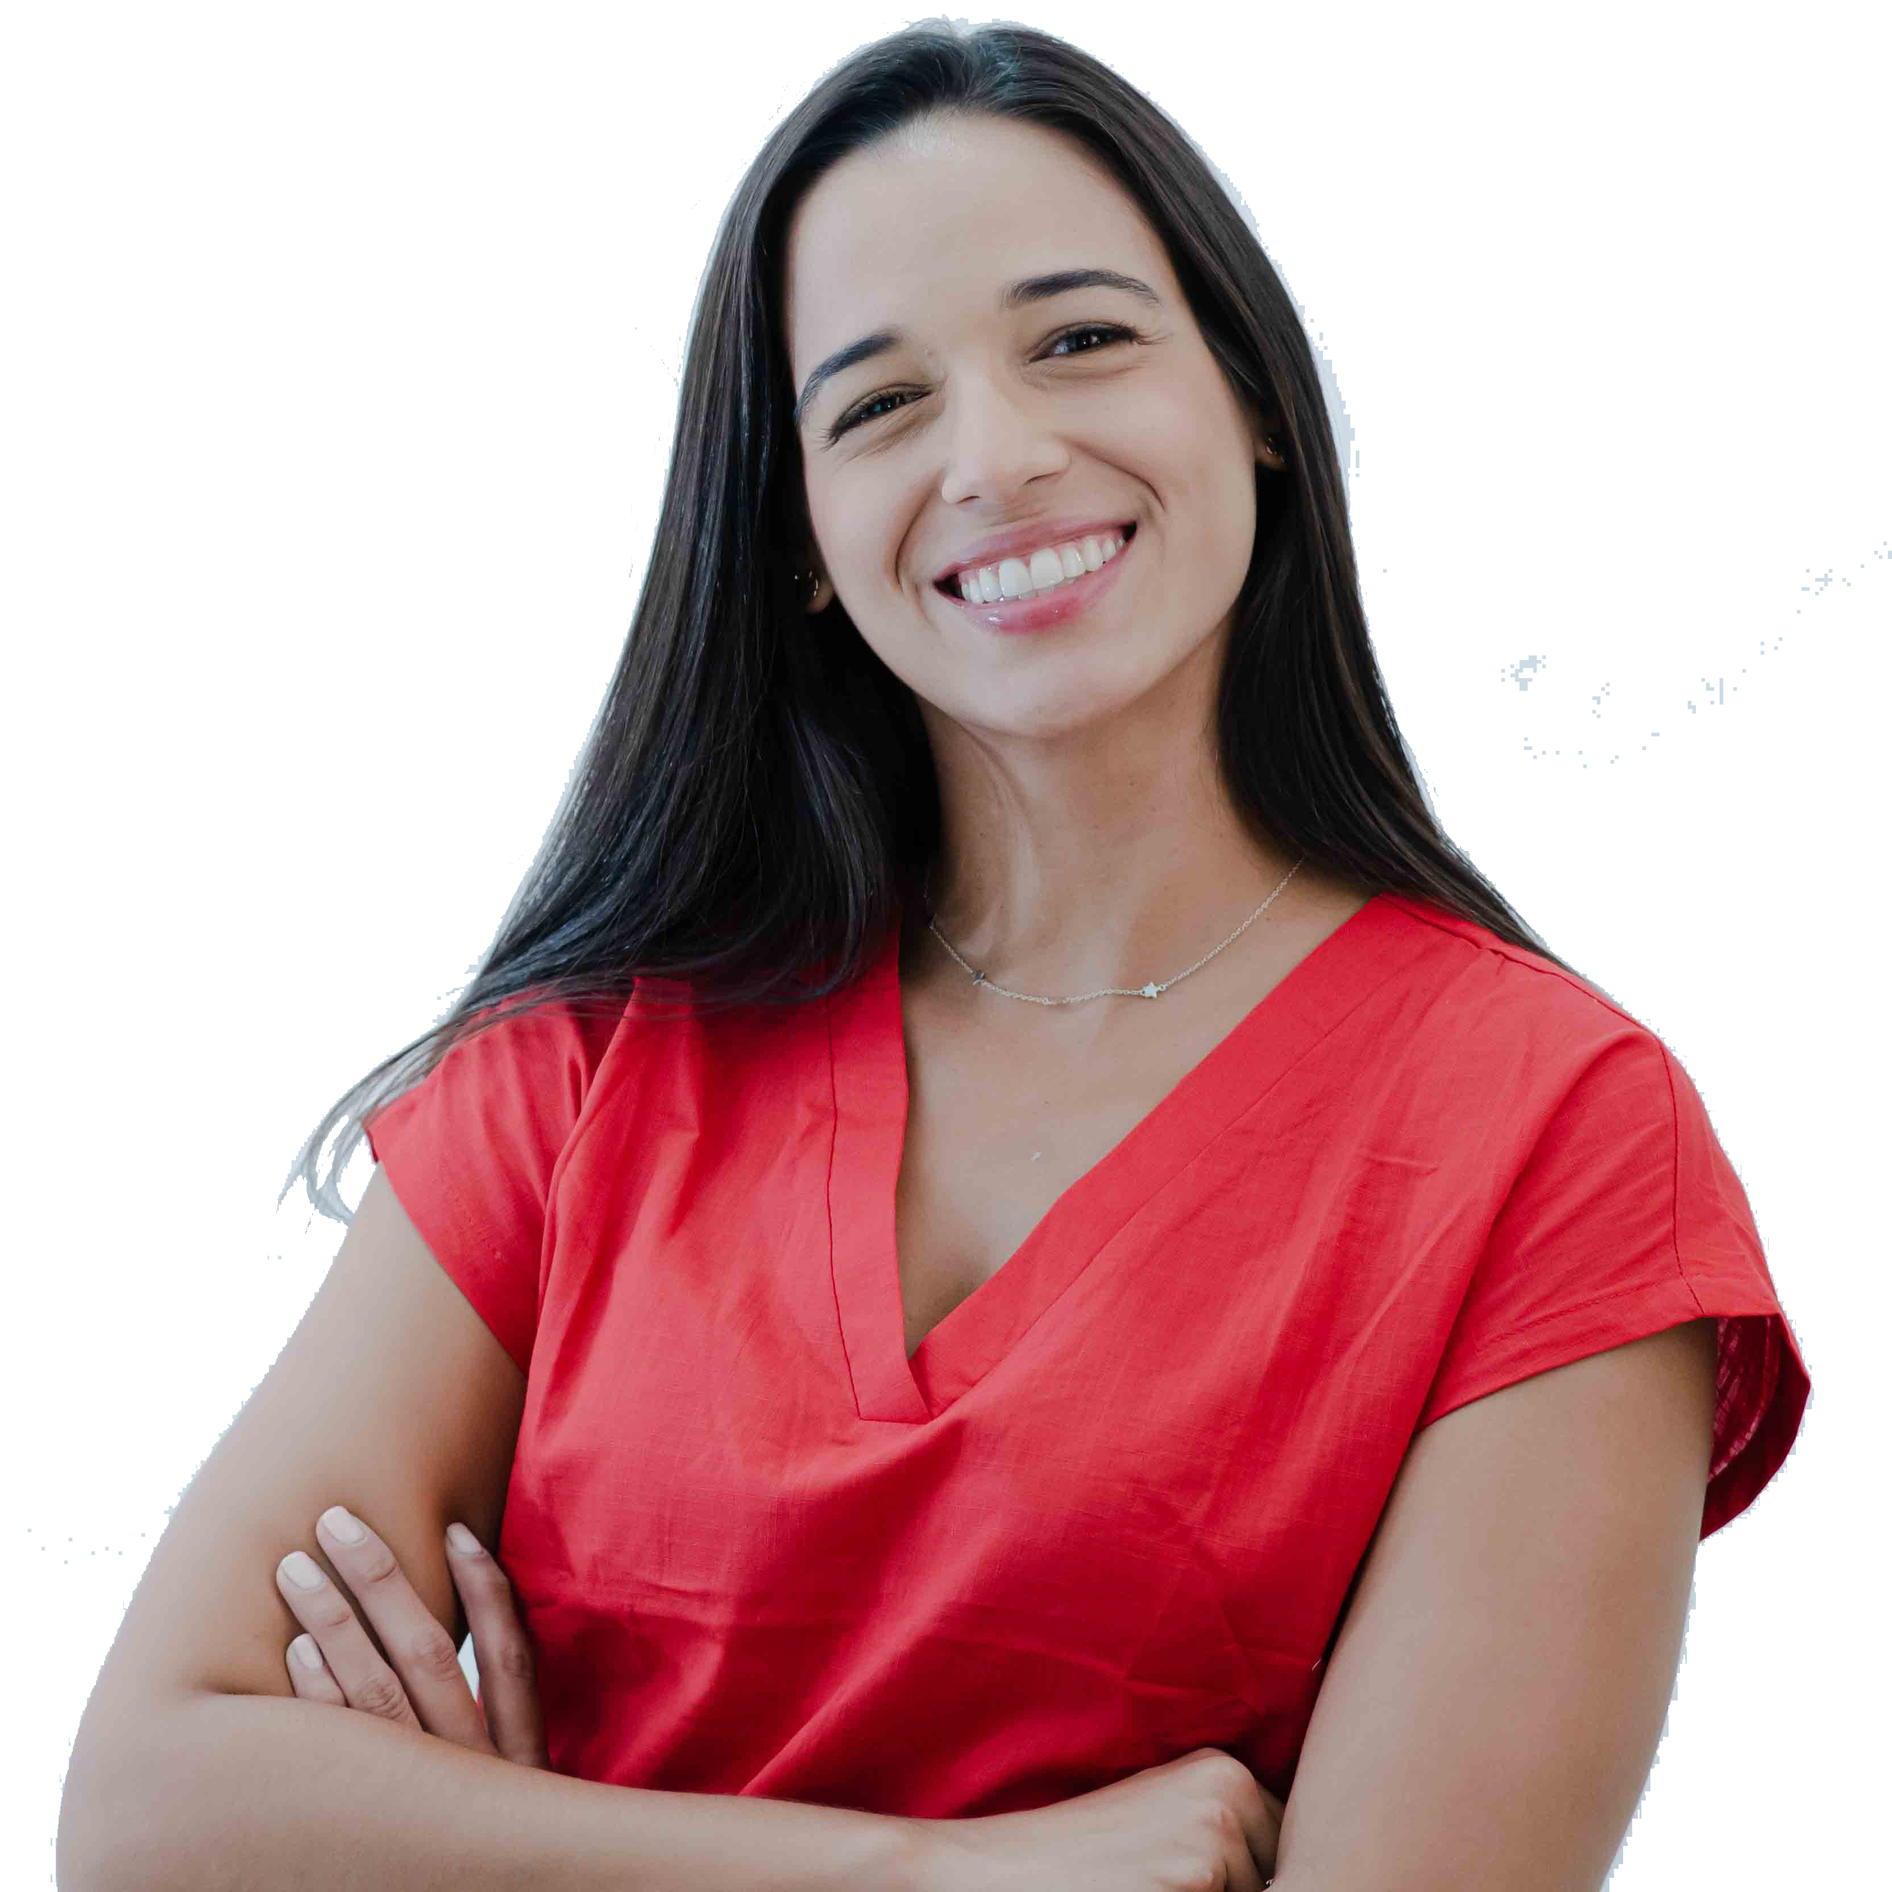
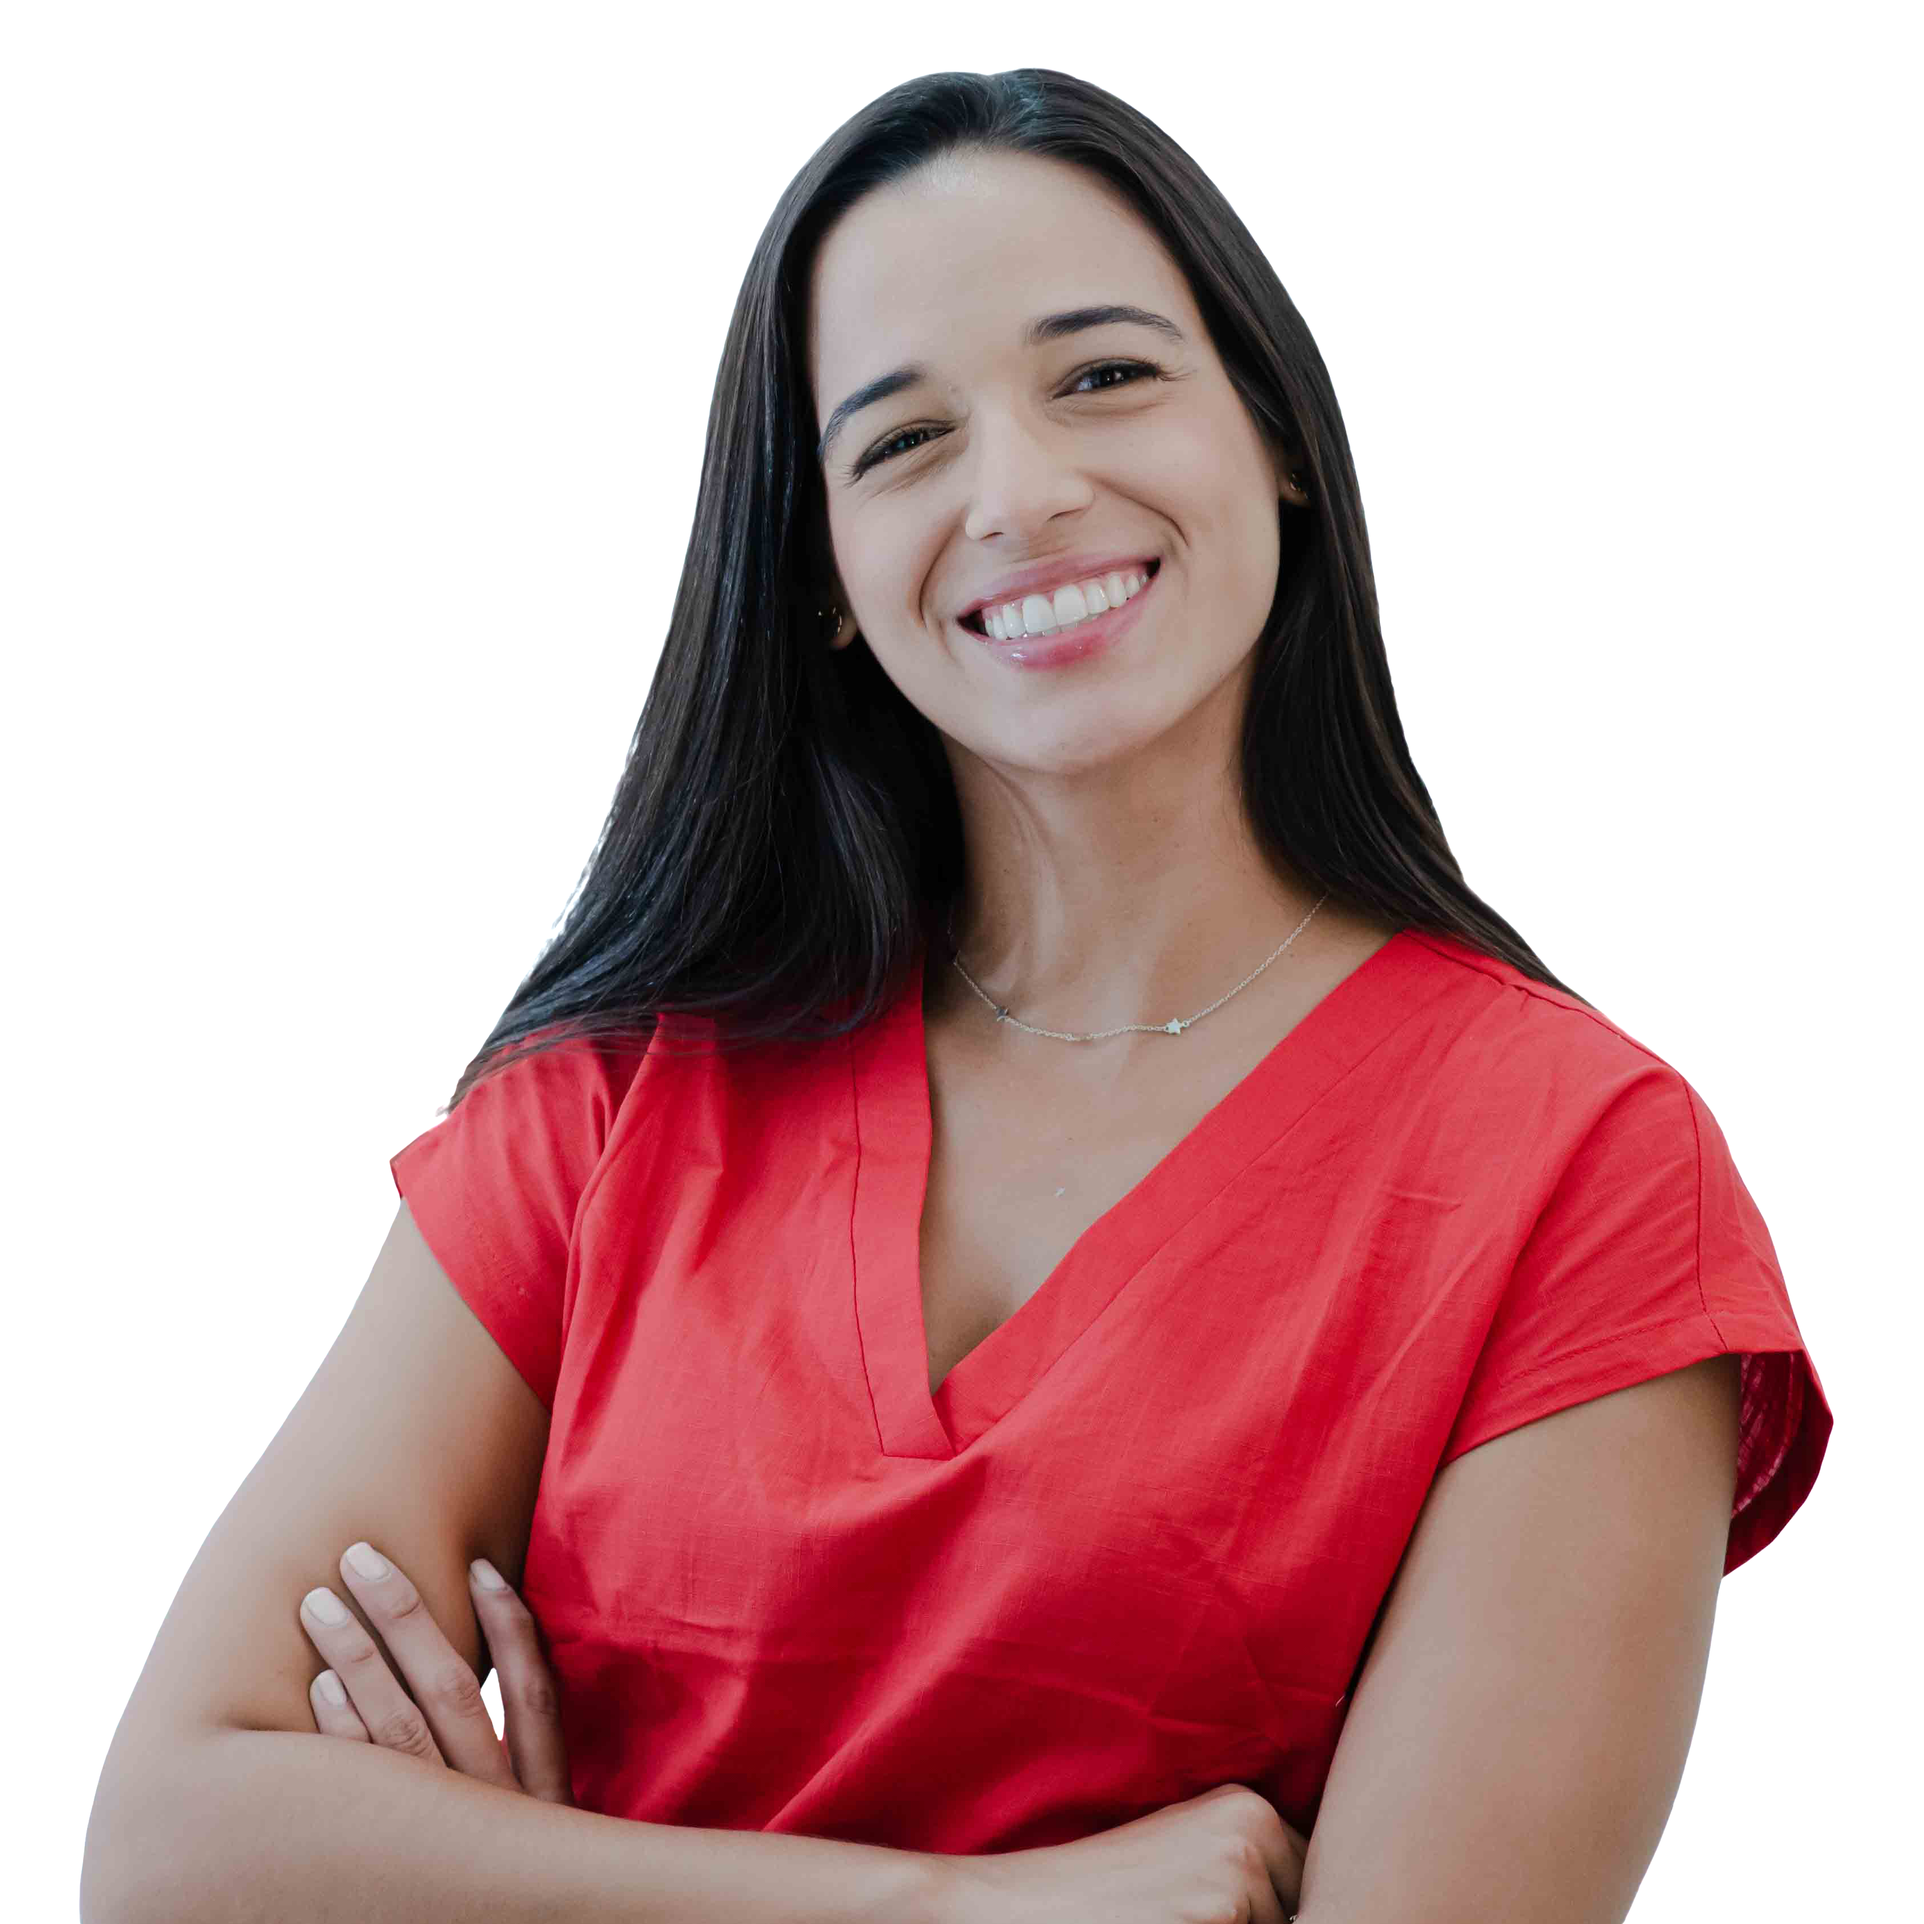
actualizando portada

diff --git a/src/template/home/home-cover.js b/src/template/home/home-cover.js
@@ -26,7 +26,11 @@ const HomeCover = () => {
         <Section fluid id="inicio">
           <Container fluid>
             <Content>
-              <Spring pause={!inView} config={config.molasses} {...FadeUp}>
+              <Spring
+                // pause={!inView}
+                config={config.molasses}
+                {...FadeUp}
+              >
                 {(styles) => (
                   <animated.div style={styles} ref={ref}>
                     <Title>{data.title}</Title>
@@ -35,7 +39,7 @@ const HomeCover = () => {
               </Spring>
 
               <Spring
-                pause={!inView}
+                // pause={!inView}
                 delay={200}
                 config={config.molasses}
                 {...FadeUp}
@@ -47,7 +51,7 @@ const HomeCover = () => {
                 )}
               </Spring>
               <Spring
-                pause={!inView}
+                // pause={!inView}
                 delay={300}
                 config={config.molasses}
                 {...FadeUp}
@@ -63,7 +67,7 @@ const HomeCover = () => {
             <MediaWrapper>
               <Spring
                 config={config.molasses}
-                pause={!inView}
+                // pause={!inView}
                 from={{
                   opacity: 0,
                 }}
@@ -93,6 +97,12 @@ export default HomeCover;
 
 const Section = styled.section`
   background: ${colors.gray.light};
+  background: rgb(229, 229, 229);
+  background: radial-gradient(
+    circle,
+    rgba(229, 229, 229, 1) 0%,
+    rgba(245, 245, 245, 1) 100%
+  );
   position: relative;
   z-index: 1;
   padding-bottom: 5rem;

diff --git a/src/components/form.js b/src/components/form.js
@@ -5,6 +5,7 @@ import { mq } from "./grid/index";
 import HubspotForm from "react-hubspot-form";
 import Loading from "./loading";
 import scrollTo from "gatsby-plugin-smoothscroll";
+import colors from "./styles/colors";
 
 const Form = ({
   formId,
@@ -12,8 +13,8 @@ const Form = ({
   id = "form",
   loadingHeight = "100%",
   cardStyle = true,
-  submitedTitle = "¡Gracias por enviar el formulario!",
-  submitedText = "Hola, gracias por contactar Universidad ISA, responderemos su requerimiento en cuanto nos sea posible. Siempre a la orden.",
+  submitedTitle = "¡Gracias por contactarnos!",
+  submitedText = "Hoy inicia el camino hacia la sonrisa de tus sueños. Nos comunicaremos contigo a la brevedad posible.",
   ...props
 }) => {
   const [submited, setSubmited] = useState(false);
@@ -98,4 +99,6 @@ const FormContainer = styled.div`
   `}
 `;
 
-const Message = styled.div``;
+const Message = styled.div`
+  color: ${colors.gray.base};
+`;

diff --git a/src/template/home/home-form.js b/src/template/home/home-form.js
@@ -23,12 +23,7 @@ const HomeForm = () => {
               <FeaturedMedia media={imagen} size="100%" />
             </Deco>
             <Content>
-              <Spring
-                reset={inView}
-                reverse={!inView}
-                config={config.wobbly}
-                {...FadeUp}
-              >
+              <Spring pause={!inView} config={config.wobbly} {...FadeUp}>
                 {(styles) => (
                   <animated.div style={styles}>
                     <Title>Contáctanos</Title>
@@ -41,8 +36,7 @@ const HomeForm = () => {
                   transform: `translateY(5rem)`,
                 }}
                 to={{ opacity: 1, transform: "translateY(0)" }}
-                reset={inView}
-                reverse={!inView}
+                pause={!inView}
                 config={config.wobbly}
                 delay={500}
               >

diff --git a/src/components/layout.js b/src/components/layout.js
@@ -13,10 +13,10 @@ const Layout = ({ children }) => {
           lang: "en",
         }}
       >
-        <title>Zantier</title>
+        <title>Zantier Odontología</title>
         <meta
           name="description"
-          content="Somos Zantier, Clínica de Odontología Integral comprometidos con tu salud y bienestar"
+          content="Expertos en sonrisas. Somos una clínica de odontología especializada, donde se proporcionan servicios de salud integral de la mano de la última tecnología."
         />
         <meta name="image" content={logo} />
         <link rel="shortcut icon" href={logo} />
@@ -28,7 +28,7 @@ const Layout = ({ children }) => {
       </Helmet>
 
       <Global styles={globalStyles} />
-      <Header/>
+      <Header />
       <Main>{children}</Main>
     </>
   );

diff --git a/gatsby-config.js b/gatsby-config.js
@@ -1,6 +1,6 @@
 module.exports = {
   siteMetadata: {
-    title: `Zantier`,
+    title: `Zantier Odontología`,
     siteUrl: `https://www.yourdomain.tld`,
   },
   plugins: [
@@ -23,7 +23,7 @@ module.exports = {
       },
       __key: "images",
     },
-    "gatsby-transformer-sharp", 
+    "gatsby-transformer-sharp",
     {
       resolve: "gatsby-source-filesystem",
       options: {
@@ -32,8 +32,7 @@ module.exports = {
       },
       __key: "images",
     },
-    
-    "gatsby-plugin-emotion",
 
-  ]
+    "gatsby-plugin-emotion",
+  ],
 };
